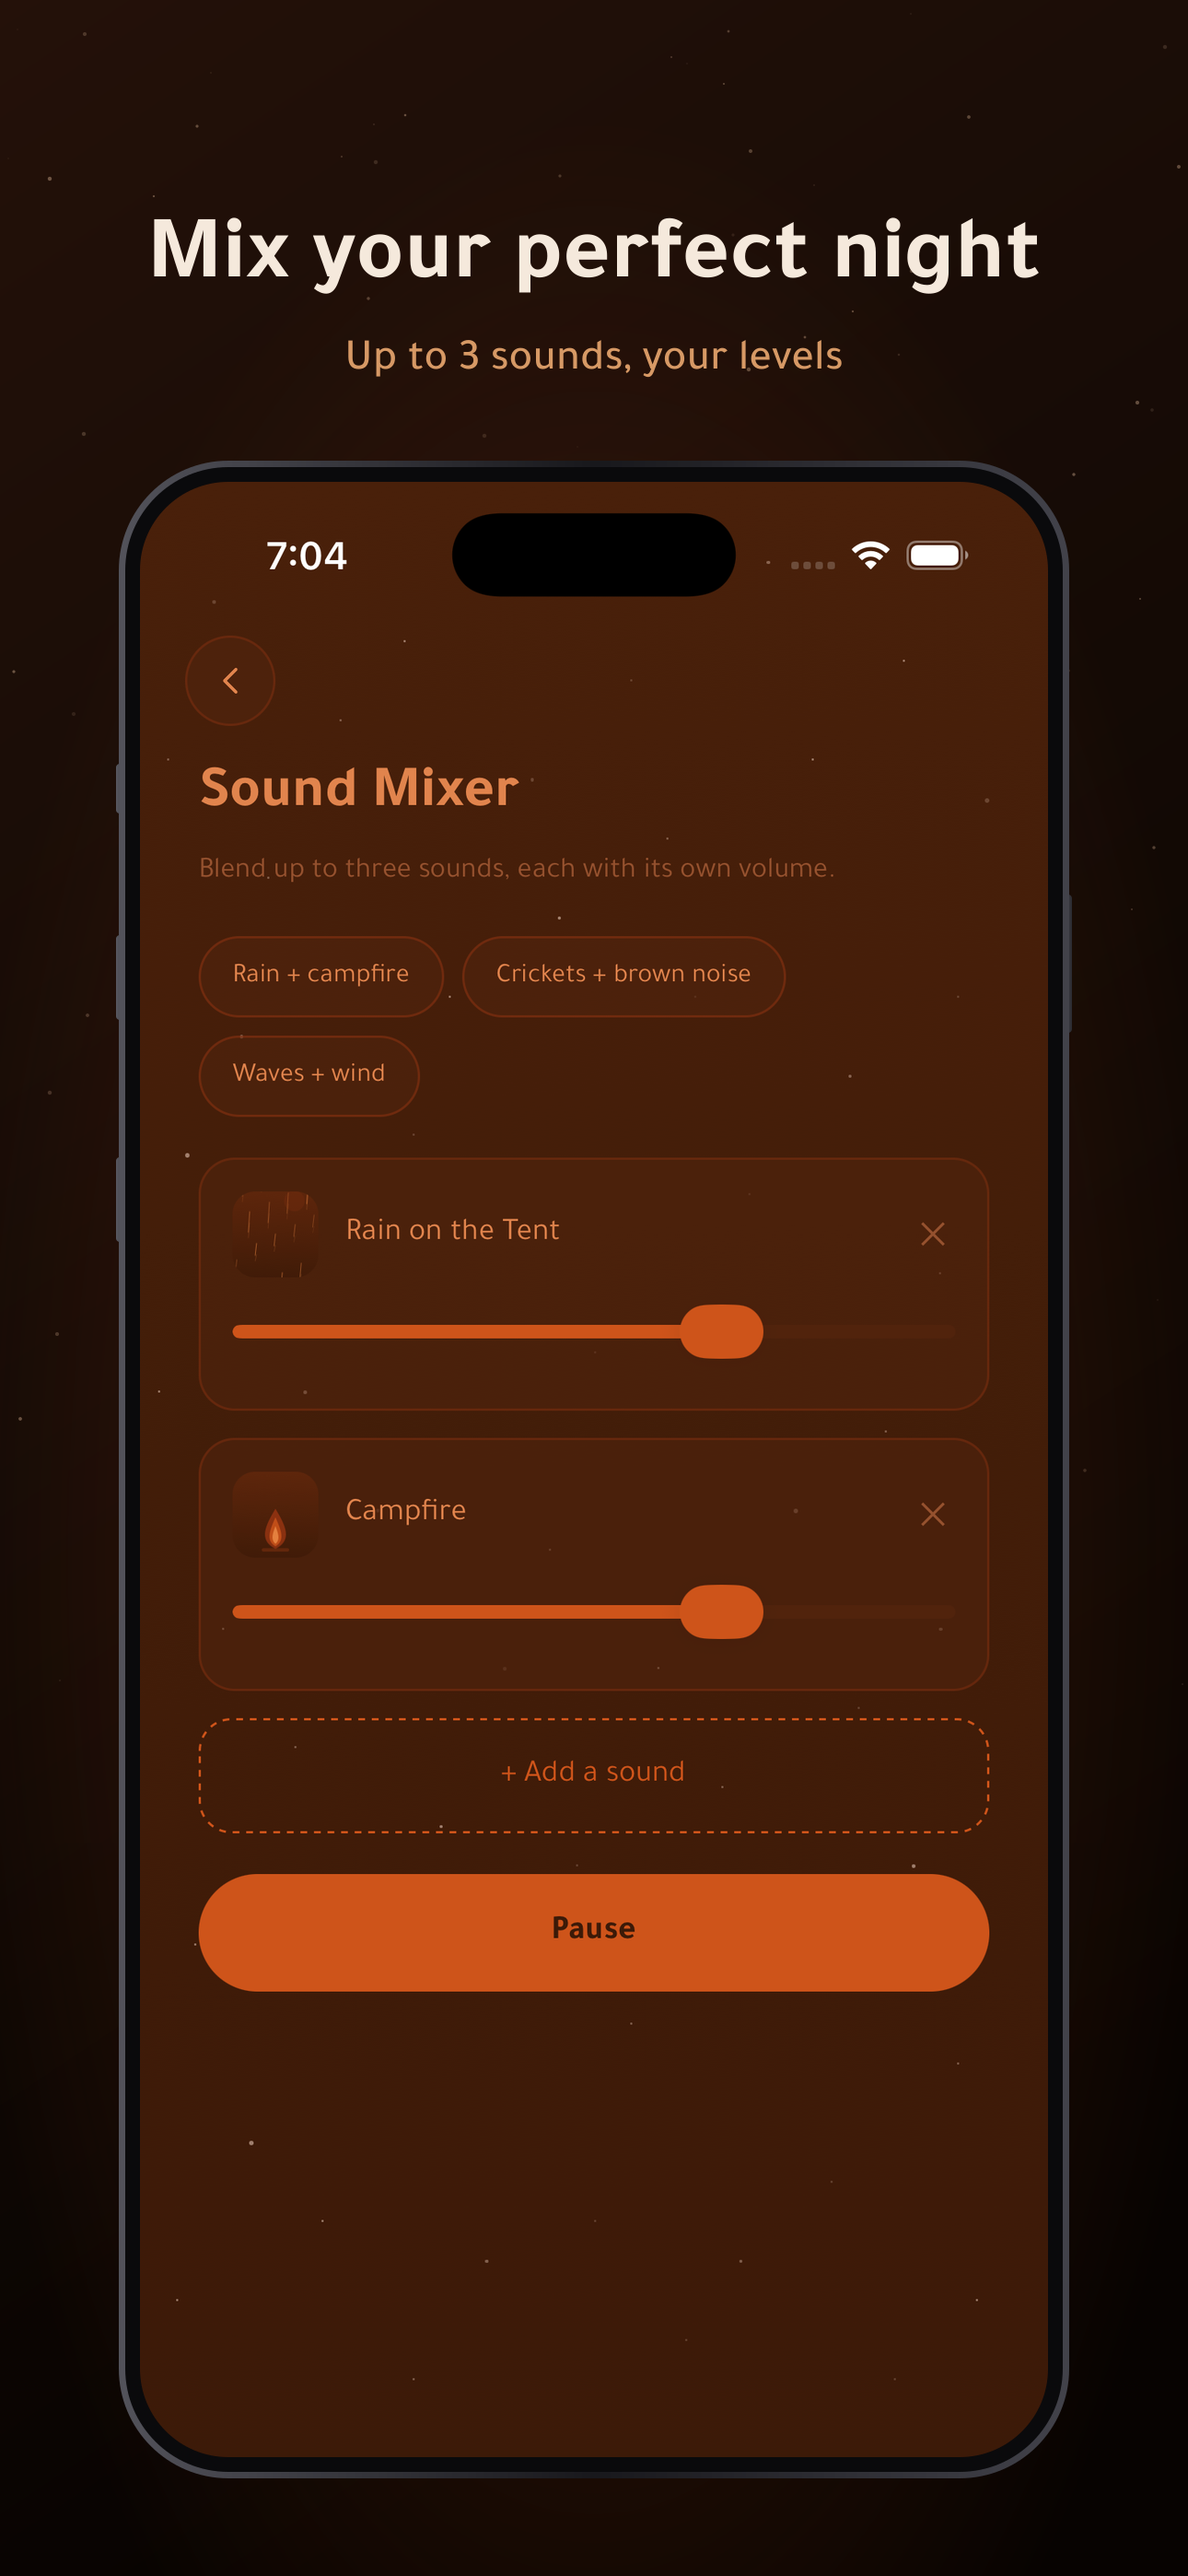
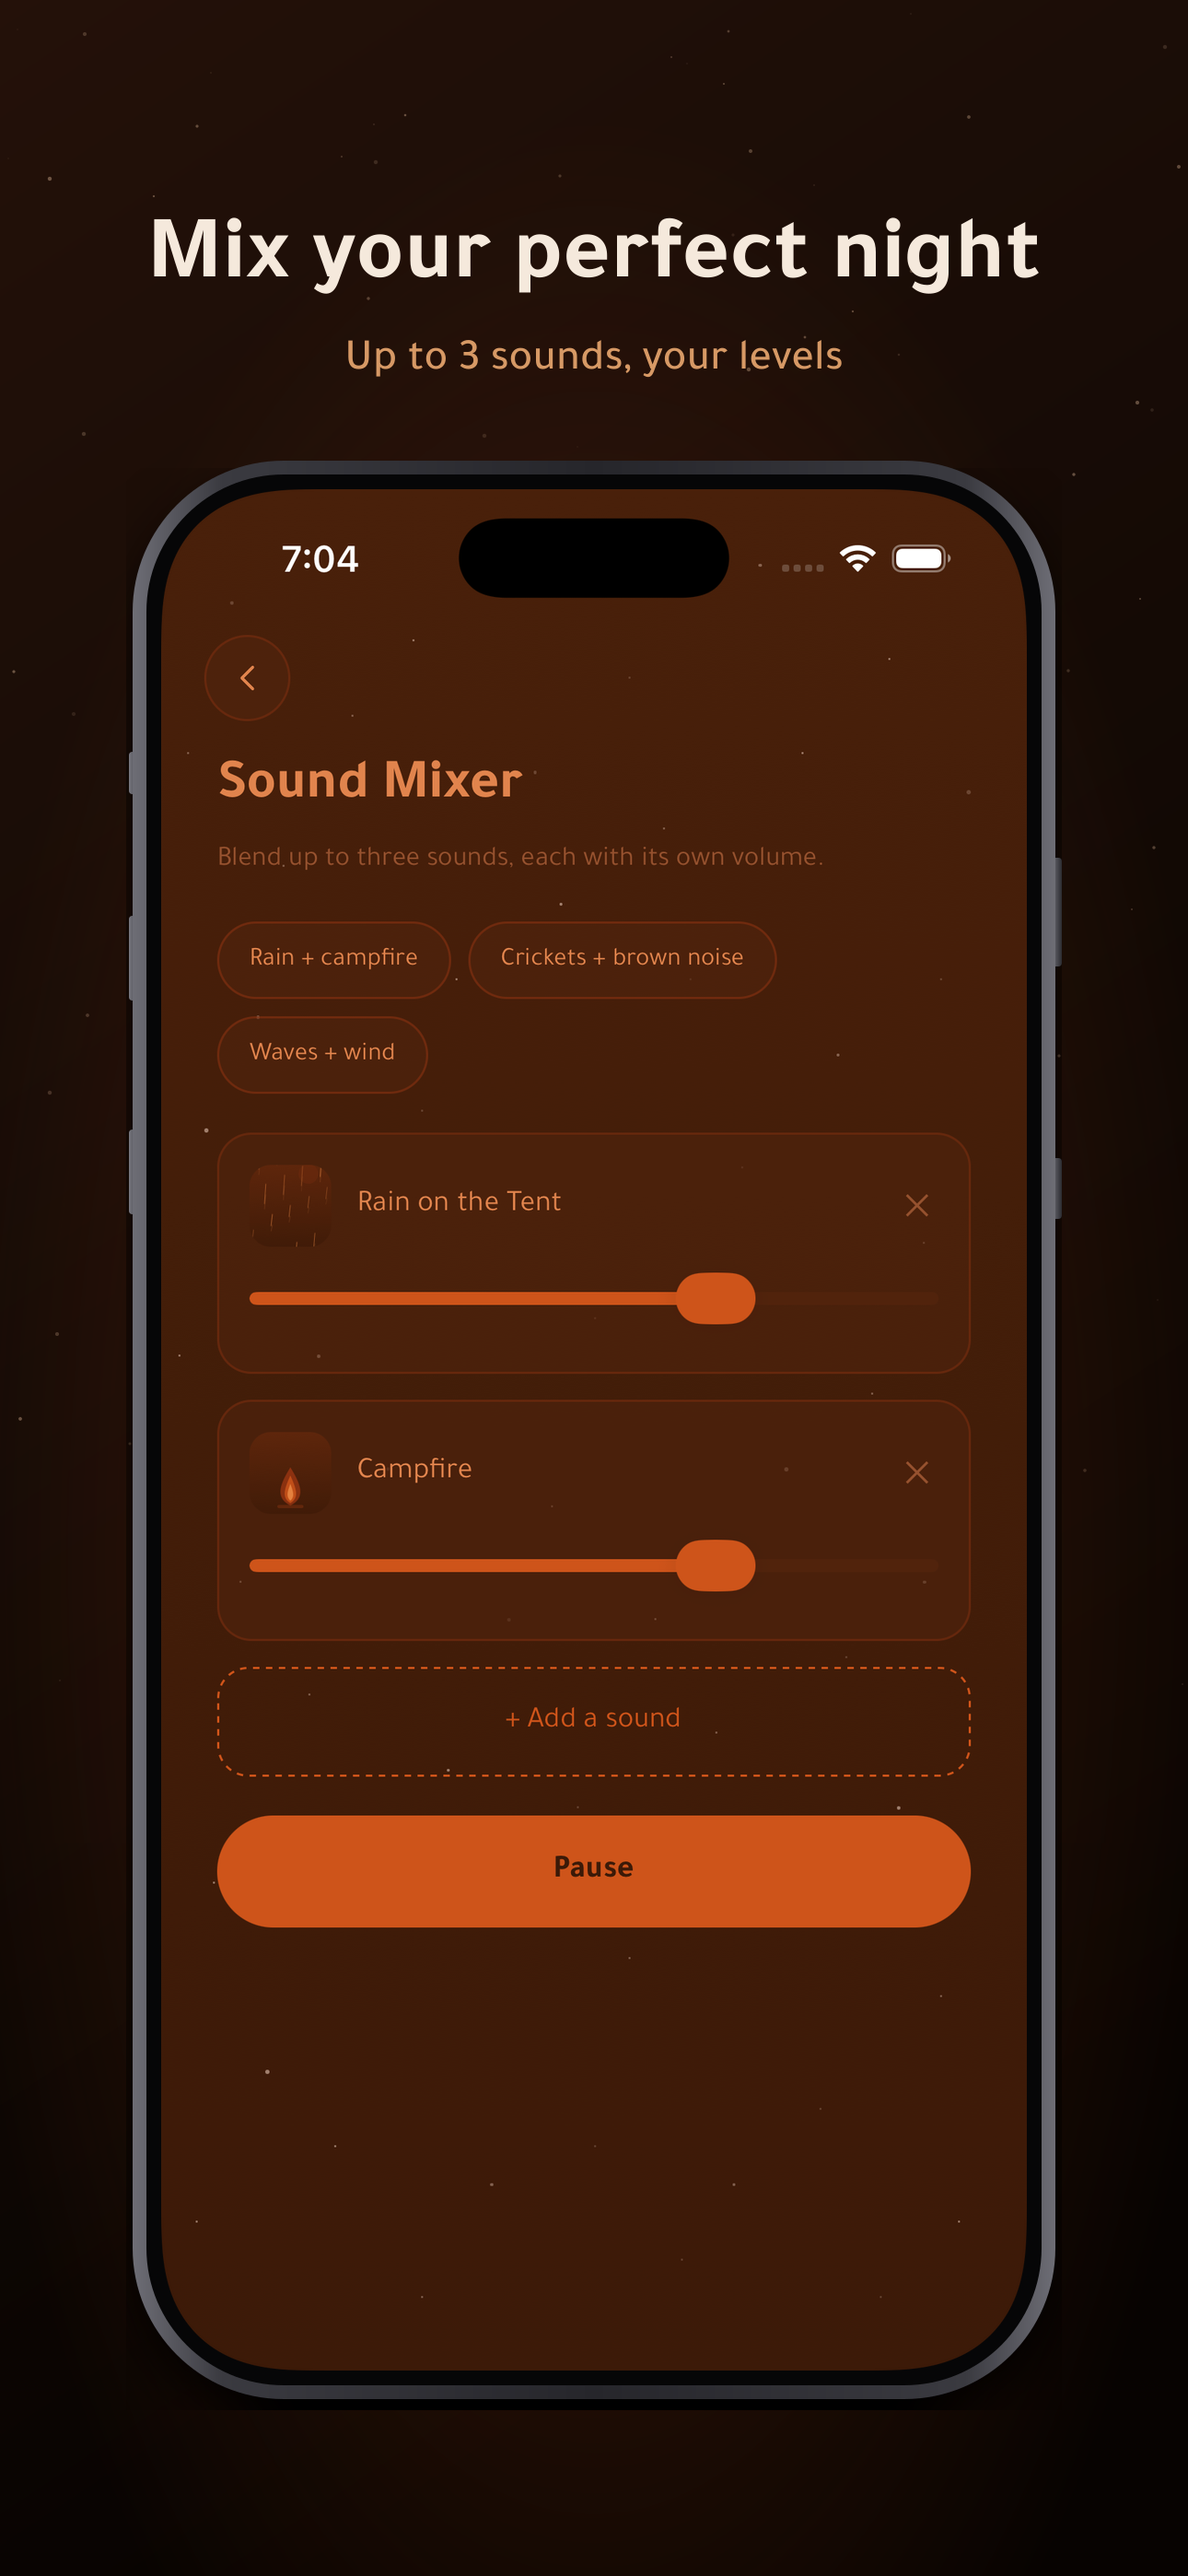
polish(ios): realistic iPhone 17 Pro Max mockup for App Store shots
Use Apple's exact iPhone 17 Pro Max screen-corner mask (from the simulator
device profile) for correct rounding, a brushed-titanium body with edge
highlights, real button layout (Action + volume left, Side + Camera Control
right), and a soft contact shadow.

diff --git a/store/screenshots-studio/gen-appstore.js b/store/screenshots-studio/gen-appstore.js
@@ -43,50 +43,65 @@ function bgSvg(headline, sub, rtl) {
   </svg>`;
 }
 
-const roundMask = (w, h, r) => Buffer.from(
-  `<svg xmlns="http://www.w3.org/2000/svg" width="${w}" height="${h}"><rect width="${w}" height="${h}" rx="${r}" ry="${r}" fill="#fff"/></svg>`);
+const APPLE_MASK = __dirname + '/ios17pm-mask.png'; // Apple's exact iPhone 17 Pro Max screen-corner shape
+const MASK_W = 1320, MASK_H = 2868;
 
 async function makeSlide({ raw, headline, sub, rtl, out }) {
-  const meta = await sharp(raw).metadata();
-  const devW = 986;
-  const devH = Math.round(devW * (meta.height / meta.width));
-  const screenR = 96; // iPhone corner rounding on the capture
+  const devW = 940;
+  const devH = Math.round(devW * (MASK_H / MASK_W)); // match Apple screen aspect
+  const screenR = Math.round(devW * 0.141);          // Apple corner radius at this scale
 
+  // round the capture with Apple's real corner shape
+  const mask = await sharp(APPLE_MASK).resize(devW, devH).ensureAlpha().toBuffer();
   const screen = await sharp(raw)
     .resize(devW, devH)
-    .composite([{ input: roundMask(devW, devH, screenR), blend: 'dest-in' }])
+    .composite([{ input: mask, blend: 'dest-in' }])
     .png().toBuffer();
 
-  // Realistic iPhone body: titanium rim + black bezel + side buttons.
-  const RIM = 7, BLACK = 16, BTN = 8;
-  const bodyW = devW + (RIM + BLACK) * 2, bodyH = devH + (RIM + BLACK) * 2;
-  const bodyR = screenR + RIM + BLACK;
-  const fw = bodyW + BTN * 2, fh = bodyH;
-  const bx = BTN;                        // body left edge inside frame buffer
-  const sLeft = bx + RIM + BLACK, sTop = RIM + BLACK;
-  const leftX = bx - 3, rightX = bx + bodyW - BTN - 2, bw = BTN + 5;
-  const btn = (x, y, h) => `<rect x="${x}" y="${y.toFixed(0)}" width="${bw}" height="${h}" rx="4" ry="4" fill="url(#rail)"/>`;
+  // iPhone 17 Pro Max titanium body: thin black bezel + brushed titanium rail + side buttons
+  const BLK = 16, RAIL = 15, BTN = 7;
+  const bodyW = devW + (BLK + RAIL) * 2, bodyH = devH + (BLK + RAIL) * 2;
+  const bodyR = screenR + BLK + RAIL;
+  const fw = bodyW + BTN * 2, fh = bodyH + 4;
+  const bx = BTN, by = 0;
+  const sLeft = bx + BLK + RAIL, sTop = by + BLK + RAIL;
+
+  const lX = bx - 4, rX = bx + bodyW - BTN + 1, bwid = BTN + 6;
+  const btn = (x, y, h) => `<rect x="${x}" y="${(by + bodyH * y).toFixed(0)}" width="${bwid}" height="${h}" rx="3.5" fill="url(#rail)"/>`;
+
   const frame = Buffer.from(
     `<svg xmlns="http://www.w3.org/2000/svg" width="${fw}" height="${fh}">
        <defs>
-         <linearGradient id="metal" x1="0" y1="0" x2="1" y2="0">
-           <stop offset="0" stop-color="#52525a"/><stop offset="0.5" stop-color="#18181c"/><stop offset="1" stop-color="#42424a"/>
+         <linearGradient id="ti" x1="0" y1="0" x2="1" y2="0">
+           <stop offset="0" stop-color="#6f6f77"/><stop offset="0.10" stop-color="#3a3a40"/>
+           <stop offset="0.5" stop-color="#26262b"/><stop offset="0.90" stop-color="#3a3a40"/>
+           <stop offset="1" stop-color="#6f6f77"/>
          </linearGradient>
          <linearGradient id="rail" x1="0" y1="0" x2="1" y2="0">
-           <stop offset="0" stop-color="#5a5a62"/><stop offset="1" stop-color="#2a2a30"/>
+           <stop offset="0" stop-color="#7a7a82"/><stop offset="1" stop-color="#2c2c31"/>
          </linearGradient>
        </defs>
-       ${btn(leftX, bodyH * 0.15, 54)}
-       ${btn(leftX, bodyH * 0.235, 92)}
-       ${btn(leftX, bodyH * 0.345, 92)}
-       ${btn(rightX, bodyH * 0.215, 150)}
-       <rect x="${bx}" y="0" width="${bodyW}" height="${bodyH}" rx="${bodyR}" ry="${bodyR}" fill="url(#metal)"/>
-       <rect x="${bx + RIM}" y="${RIM}" width="${bodyW - RIM * 2}" height="${bodyH - RIM * 2}" rx="${bodyR - RIM}" ry="${bodyR - RIM}" fill="#0a0a0c"/>
+       <!-- side buttons: Action + Volume up/down (left), Side + Camera Control (right) -->
+       ${btn(lX, 0.150, 46)}
+       ${btn(lX, 0.235, 92)}
+       ${btn(lX, 0.345, 92)}
+       ${btn(rX, 0.205, 118)}
+       ${btn(rX, 0.360, 66)}
+       <!-- titanium body -->
+       <rect x="${bx}" y="${by}" width="${bodyW}" height="${bodyH}" rx="${bodyR}" fill="url(#ti)"/>
+       <!-- inner black bezel -->
+       <rect x="${bx + RAIL}" y="${by + RAIL}" width="${bodyW - RAIL * 2}" height="${bodyH - RAIL * 2}" rx="${bodyR - RAIL}" fill="#060607"/>
      </svg>`);
+
+  // soft contact shadow under the device
+  const shadow = await sharp(Buffer.from(
+    `<svg xmlns="http://www.w3.org/2000/svg" width="${fw}" height="${fh}"><rect x="10" y="24" width="${fw - 20}" height="${fh - 20}" rx="${bodyR}" fill="#000"/></svg>`))
+    .blur(38).png().toBuffer();
 
   const fx = Math.round((W - fw) / 2), fyTop = 500;
   await sharp(Buffer.from(bgSvg(headline, sub, rtl)))
     .composite([
+      { input: shadow, left: fx, top: fyTop + 8, opacity: 0.55 },
       { input: frame, left: fx, top: fyTop },
       { input: screen, left: fx + sLeft, top: fyTop + sTop },
     ])
